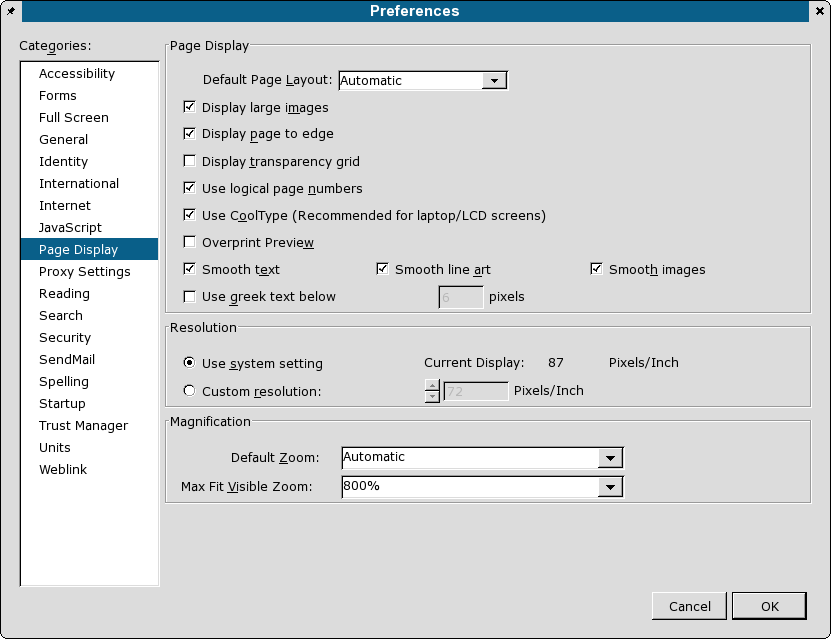
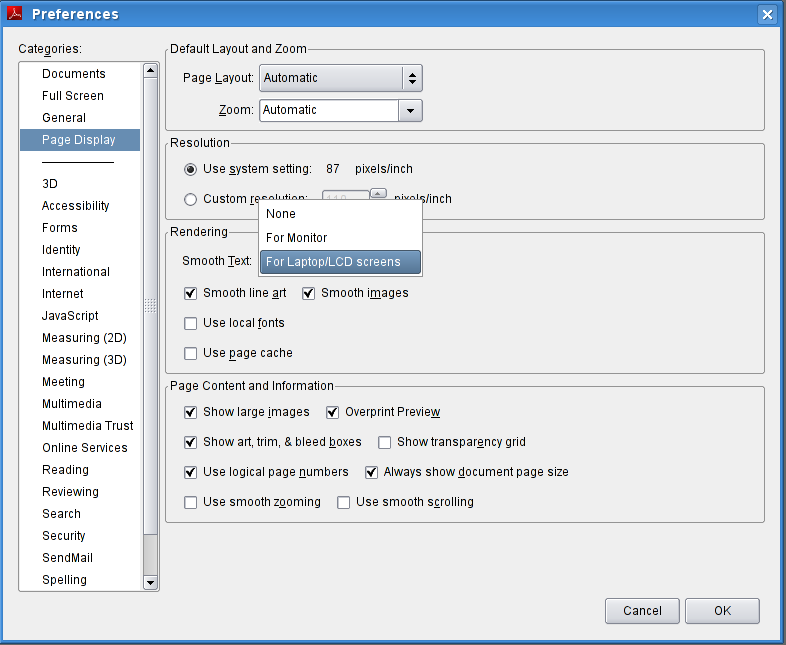
update toolbox1 to Acro 8 part 1
git-svn-id: svn://scribus.net/branches/Version133x/Scribus@11770 11d20701-8431-0410-a711-e3c959e3b870

Changed region(s): [[0.0, 0.0, 1.0, 1.0], [0.7023, 0.4163, 0.855, 0.446], [0.7328, 0.5649, 0.8244, 0.5947]]

diff --git a/scribus/doc/en/toolbox1.html b/scribus/doc/en/toolbox1.html
@@ -3,18 +3,18 @@
 <h2>Adobe Reader</h2>
 <h4>Using "Hidden" Features with Adobe Reader and Scribus</h4>
 
-<p>Adobe Reader&#174; 7.0.9+ is in my experience one of the essential tools to have when using Scribus. Although mostly a simple viewer, it has some advanced features which no other PDF viewer has in the Linux,*nix world: full support for JavaScript with a PDF (You did not know a PDF was scriptable? Scribus is unique in the Linux/*nix world for the ability to create scriptable interactive PDF forms) and detailed information which is embedded in the PDF, but viewable only in Adobe Reader.</p>
+<p>Adobe Reader&#174; 8 is in my experience one of the essential tools to have when using Scribus. Although mostly a simple viewer, it has some advanced features which no other PDF viewer has in the Linux,*nix world: full support for JavaScript with a PDF (You did not know a PDF was scriptable? Scribus is unique in the Linux/*nix world for the ability to create scriptable interactive PDF forms) and detailed information which is embedded in the PDF, but viewable only in Adobe Reader.</p>
 
 <p>For MacOSX and Windows users, the above applies, as well. We do not recommend judging colors or correctness in the Mac Preview application either. If you are using Adobe Reader 8.x the settings recommendations apply as well.  </p>
 
 <p> Moreover, while PDF is a published standard, Adobe invented PostScript on which PDF is based and has a commercial incentive to promote PDF on all platforms.</p>
 <h3>Hints for Scribus users:</h3>
-<p><strong>We highly recommend upgrading to the latest Adobe Reader 7.0.5. </strong>Simply put, there is nothing else more capable of rendering PDF correctly. Whatever your objections were to older versions (and there were some substantial ones, most notably on Linux), this latest version 7 ameliorates the vast majority of them. It is far more stable, bug free and loads quicker than Version 6.x. On Linux it now has a modern look and feel. Version 7.0.9 also has direct support for CUPS and allows many extra options for printing.  <strong>Any PDF rendering issues with Scribus exported PDF in other viewers should be cross-checked with Reader 7 before reporting bugs to us. </strong>
+<p><strong>We highly recommend upgrading to the latest Adobe Reader 8.1.x. </strong>Simply put, there is nothing else more capable of rendering PDF correctly. Whatever your objections were to older versions (and there were some substantial ones, most notably on Linux), this latest version 7 ameliorates the vast majority of them. It is far more stable, bug free and loads quicker than Version 6.x. On Linux it now has a modern look and feel. Versions after 7.0.9 also has direct support for CUPS and allows many extra options for printing.  <strong>Any PDF rendering issues with Scribus exported PDF in other viewers should be cross-checked with Reader 7 before reporting bugs to us. </strong>
 <h4>Known Issues:</h4>
 We are aware of color mismatches when viewing PDFs which have some kinds of transparency in PDF 1.4. Yes, this has been duly reported as a bug to Adobe too.</p> <p><strong>Details:</strong> As soon there is an extended graphics state parameter dictionary present which contains any transparency blend space operators, Adobe Reader 7.x switches into CMYK mode showing incorrect colours. My local printer confirmed this strange behaviour even with files not generated by scribus, its clearly a bug from Adobe.</p>
 <h3>Tweaking the Viewer Preferences</h3>
 
-<p>Right away, getting the preferences right in Reader is important to ensure the default preferences to set improve the reliability for our purposes with Scribus. There are a many preferences in Reader 7. The page display part is the most important. </p>
+<p>Right away, getting the preferences right in Reader is important to ensure the default preferences to set improve the reliability for our purposes with Scribus. There are a many preferences in Reader 8. The page display part is the most important. </p>
 
 <table width="100%"><tr><td align="center"><img src="images/acro1.png" alt="Acrobat Reader General Preferences" /></td></tr></table>
 <p>This dialog is <strong>very</strong> important to set up properly for optimized viewing Scribus created PDFs.</p>
